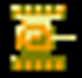
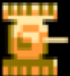
update

diff --git a/Tankmain.cpp b/Tankmain.cpp
@@ -28,7 +28,6 @@ bool init();
 void close();
 SDL_Texture* loadTexture(const std::string& filePath);
 void renderTexture(SDL_Texture* texture, int x, int y, SDL_Renderer* renderer, SDL_Rect* clip = nullptr, double angle = 0.0, SDL_Point* center = nullptr, SDL_RendererFlip flip = SDL_FLIP_NONE);
-
 void handleInput(SDL_Event& e, Tank& player1, Tank& player2, std::vector<Bullet>& bullets, GameMap& gameMap);
 void update(Tank& player1, Tank& player2, std::vector<Bullet>& bullets, GameMap& gameMap);
 void render(SDL_Renderer* renderer, Tank& player1, Tank& player2, std::vector<Bullet>& bullets, GameMap& gameMap);
@@ -358,13 +357,14 @@ void render(SDL_Renderer* renderer, Tank& player1, Tank& player2, std::vector<Bu
     SDL_SetRenderDrawColor(renderer, 0x00, 0x00, 0x00, 0xFF); // Black background
 
         gameMap.render(renderer);
-       SDL_Rect tankRect1 = { static_cast<int>(player1.x), static_cast<int>(player1.y), TANK_WIDTH, TANK_HEIGHT };
-    SDL_SetRenderDrawColor(renderer, 0xFF, 0x00, 0x00, 0xFF); // Red
-    SDL_RenderFillRect(renderer, &tankRect1);
-
-    SDL_Rect tankRect2 = { static_cast<int>(player2.x), static_cast<int>(player2.y), TANK_WIDTH, TANK_HEIGHT };
-    SDL_SetRenderDrawColor(renderer, 0x00, 0x00, 0xFF, 0xFF); // Blue
-    SDL_RenderFillRect(renderer, &tankRect2);
+    //   SDL_Rect tankRect1 = { static_cast<int>(player1.x), static_cast<int>(player1.y), TANK_WIDTH, TANK_HEIGHT };
+   // SDL_SetRenderDrawColor(renderer, 0xFF, 0x00, 0x00, 0xFF); // Red
+   // SDL_RenderFillRect(renderer, &tankRect1);
+    player1.render(gRenderer) ;
+     player2.render(gRenderer) ;
+   // SDL_Rect tankRect2 = { static_cast<int>(player2.x), static_cast<int>(player2.y), TANK_WIDTH, TANK_HEIGHT };
+    //SDL_SetRenderDrawColor(renderer, 0x00, 0x00, 0xFF, 0xFF); // Blue
+    //SDL_RenderFillRect(renderer, &tankRect2);
 
 
     // Render bullets - REPLACED WITH WHITE TRIANGLE
@@ -397,18 +397,19 @@ int main(int argc, char* args[]) {
     IMG_Init(IMG_INIT_PNG);
 
     SDL_Window* window = SDL_CreateWindow("Tank Game", SDL_WINDOWPOS_CENTERED, SDL_WINDOWPOS_CENTERED, 800, 600, SDL_WINDOW_SHOWN);
-    SDL_Renderer* renderer = SDL_CreateRenderer(window, -1, SDL_RENDERER_ACCELERATED);
-    // Hiển thị màn hình chờ trước khi vào game
-    showStartScreen(renderer);
+
     if (!init()) {
         std::cerr << "Initialization failed!" << std::endl;
         return 1;
     }
+      showStartScreen(gRenderer);
     // Create the game map
     GameMap gameMap(25, 19); // Example: 25x19 tile map
     // Create tanks
     Tank player1(100, 100);
+    player1.loadTexture(gRenderer, "tank1.png");
     Tank player2(600, 400);
+    player2.loadTexture(gRenderer, "tank2.png");
     // Create bullets vector
     std::vector<Bullet> bullets;
 

diff --git a/tank.cpp b/tank.cpp
@@ -10,6 +10,8 @@ const int TANK_HEIGHT = 30;
 const int TANK_SPEED = 3;
 const int TURRET_ROTATION_SPEED = 3;
 const int TANK_SIZE = 32;
+const int TILE_SIZE = 32;
+
 
 Tank::Tank(float startX, float startY)
     : x(startX), y(startY), angle(0), turretAngle(0), health(100) {}
@@ -34,7 +36,16 @@ void Tank::move(int dx, int dy, GameMap& gameMap) {
         y = newY;
     }
 }
+void Tank::loadTexture(SDL_Renderer* gRenderer, const char* filePath) {
+    SDL_Surface* tempSurface = IMG_Load(filePath);
+    texture = SDL_CreateTextureFromSurface(gRenderer, tempSurface);
+    SDL_FreeSurface(tempSurface);
+}
+void Tank::render(SDL_Renderer* gRenderer) {
+    SDL_Rect dst = {x, y, 32, 32};  // Giả sử tank có kích thước 50x50
+    SDL_RenderCopyEx(gRenderer, texture, nullptr, &dst, angle, nullptr, SDL_FLIP_NONE);
 
+}
 void Tank::setDirection(int direction) {
 
     direction = direction % 360;

diff --git a/Tank.h b/Tank.h
@@ -10,13 +10,15 @@ struct Tank {
     float angle;
     float turretAngle; // Angle of the turret relative to the tank body
     int health;
+    SDL_Texture* texture;
 
     Tank(float startX, float startY);
+    void loadTexture(SDL_Renderer* renderer, const char* filePath);
     void move(int dx, int dy, GameMap& gameMap);  //Move dx, dy again!
     void setDirection(int direction);  // New method Tank(float startX, float startY);
     float getX() const { return x; }
     float getY() const { return y; }
-    void render(SDL_Renderer* renderer);
+    void render(SDL_Renderer* gRenderer);
 };
 
 extern const int TANK_WIDTH;
